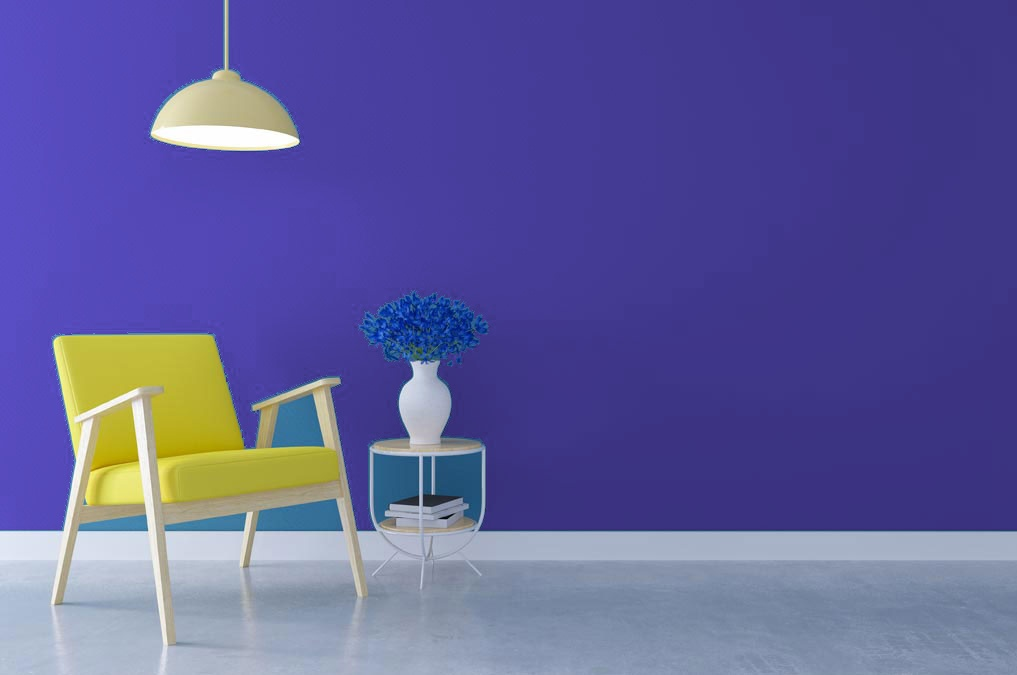
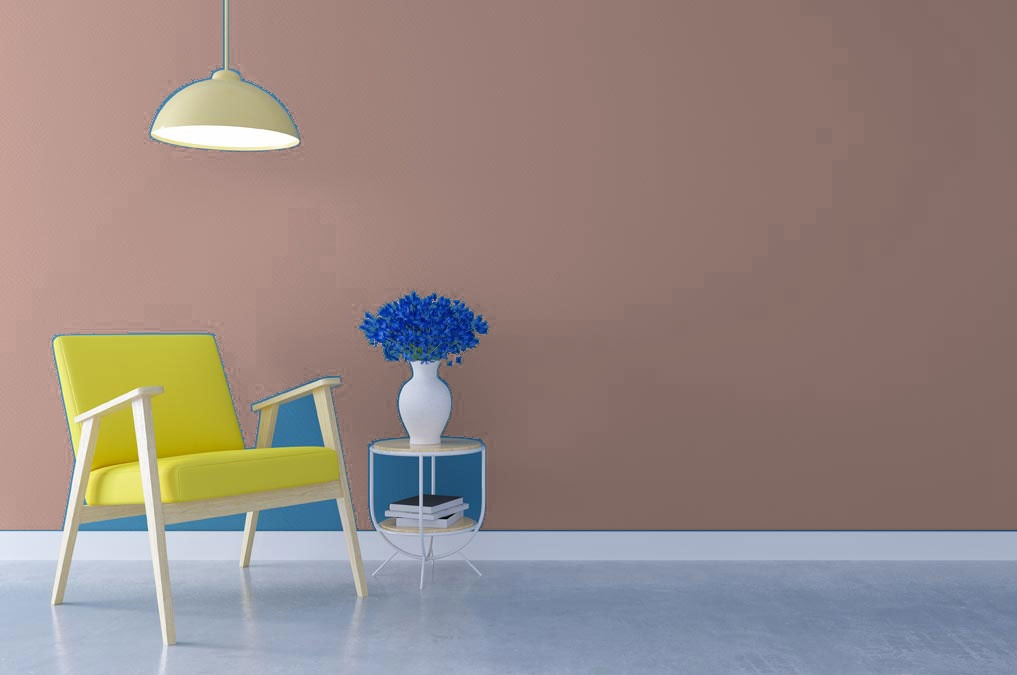
fix

diff --git a/public/css/index.css b/public/css/index.css
@@ -16,27 +16,27 @@
 }
 
 .main {
-    height: 400px;
+    width: 700px;
     display: inline-block;
     margin: 5px;
 }
 
 .c1 {
-    background-color: rgb(220, 180, 170);
+    background-color: rgb(220,180,170);
 }
 
 .c2 {
-    background-color: rgb(125, 119, 131);;
+    background-color: rgb(220,99,78);;
 }
 
 .c3 {
-    background-color: rgb(135, 168, 161);;
+    background-color: rgb(135,168,161);;
 }
 
 .c4 {
-    background-color: rgb(150, 182, 207);;
+    background-color: rgb(220,180,170);;
 }
 
 .c5 {
-    background-color: rgb(220, 180, 170);;
+    background-color: rgb(107,148,109);;
 }

diff --git a/server.py b/server.py
@@ -212,18 +212,16 @@ class SimpleHTTPRequestHandler(http.server.BaseHTTPRequestHandler):
         f.write(b"<div class='inline'>")
         f.write(b"<h3> Choose colors </h3>")
         f.write(b"<span class='sample c1' data-name='220,180,170' data-key='color'></span>")
-        f.write(b"<span class='sample c2' data-name='220,180,170' data-key='color'></span>")
-        f.write(b"<span class='sample c3' data-name='220,180,170' data-key='color'></span>")
+        f.write(b"<span class='sample c2' data-name='220,99,78' data-key='color'></span>")
+        f.write(b"<span class='sample c3' data-name='135,168,161' data-key='color'></span>")
         f.write(b"<span class='sample c4' data-name='220,180,170' data-key='color'></span>")
-        f.write(b"<span class='sample c5' data-name='220,180,170' data-key='color'></span>")
+        f.write(b"<span class='sample c5' data-name='107,148,109' data-key='color'></span>")
         f.write(b"</div>")
         f.write(b"<div class='inline'>")
         f.write(b"<h3> Choose patterns </h3>")
         f.write(b"<span><img class='sample' src='/patterns/pattern.jpg' data-name='pattern.jpg' data-key='pattern'/></span>")
-        f.write(b"<span><img class='sample' src='/patterns/pattern.jpg' data-name='pattern.jpg' data-key='pattern'/></span>")
-        f.write(b"<span><img class='sample' src='/patterns/pattern.jpg' data-name='pattern.jpg' data-key='pattern'/></span>")
-        f.write(b"<span><img class='sample' src='/patterns/pattern.jpg' data-name='pattern.jpg' data-key='pattern'/></span>")
-        f.write(b"<span><img class='sample' src='/patterns/pattern.jpg' data-name='pattern.jpg' data-key='pattern'/></span>")
+        f.write(b"<span><img class='sample' src='/patterns/pattern2.jpg' data-name='pattern.jpg' data-key='pattern'/></span>")
+        f.write(b"<span><img class='sample' src='/patterns/pattern3.jpg' data-name='pattern.jpg' data-key='pattern'/></span>")
         f.write(b"</div>")
         # f.write(b"<input type=\"submit\" value=\"Modify\" class='inline'/></form>\n")
         f.write(("<div><img class='main' src='/images/%s'/><img class='main' src='/edited/%s'/></div>" % (img, img)).encode())

diff --git a/img_proc.py b/img_proc.py
@@ -131,13 +131,13 @@ def changeColor(image_name, position, new_color, pattern_image):
     
     end = start = datetime.timestamp(datetime.now())
     print (end-start)
-    saveImage(image_name, final_img)
-    # showImages(original_img, colored_image, selected_wall, final_img)
+    # saveImage(image_name, final_img)
+    showImages(original_img, colored_image, selected_wall, final_img)
     
 
 
-# changeColor('img5.jpeg', (300, 100), [105, 149, 173], None)
-# changeColor('img3.jpg', (300, 100), None, 'pattern2.jpg')
+# changeColor('img3.jpg', (300, 100), [105, 149, 173], None)
+changeColor('img3.jpg', (300, 100), None, 'pattern3.jpg')
 
 # PINK: 220, 180, 170
 # Purple: 125, 119, 131
